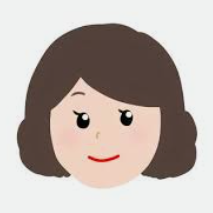
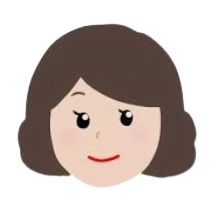
[feat]: [FE] 사진 변경

diff --git a/frontend/src/pages/Quiz.vue b/frontend/src/pages/Quiz.vue
@@ -58,7 +58,8 @@ export default {
       {
         id: 4,
         theme: 'wife',
-        imgUrl: "https://ifh.cc/g/lajTXv.png"
+        // imgUrl: "https://ifh.cc/g/lajTXv.png"
+        imgUrl: require("../../src/assets/tempsnip.png")
       },
     ]
 
